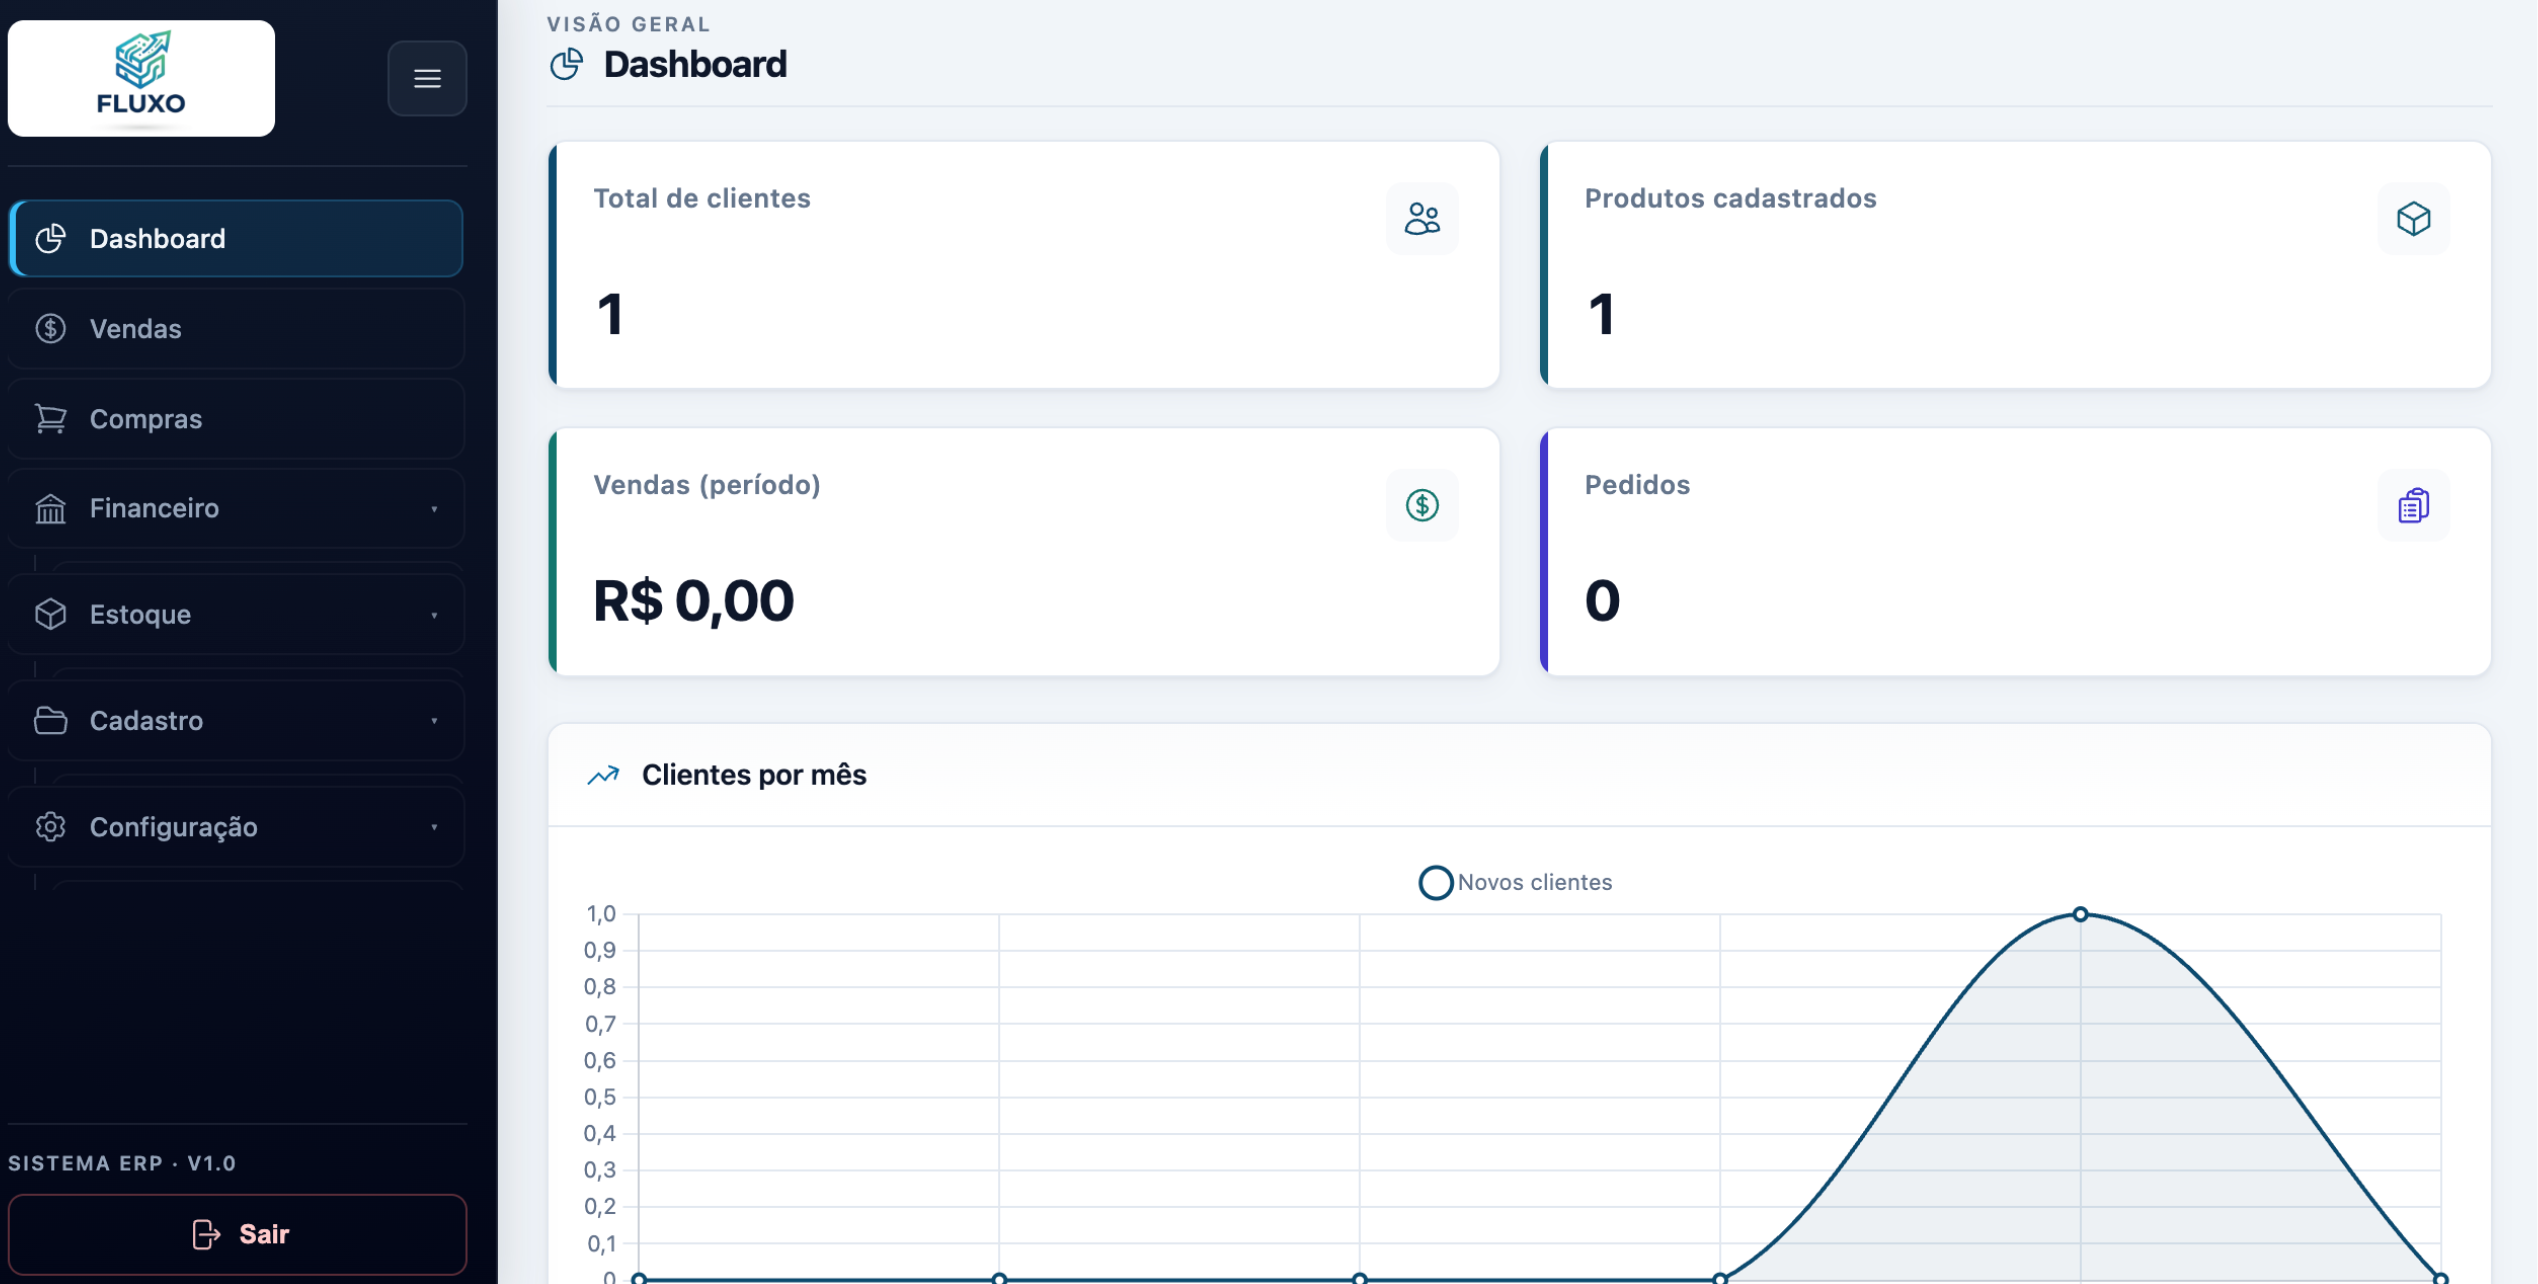
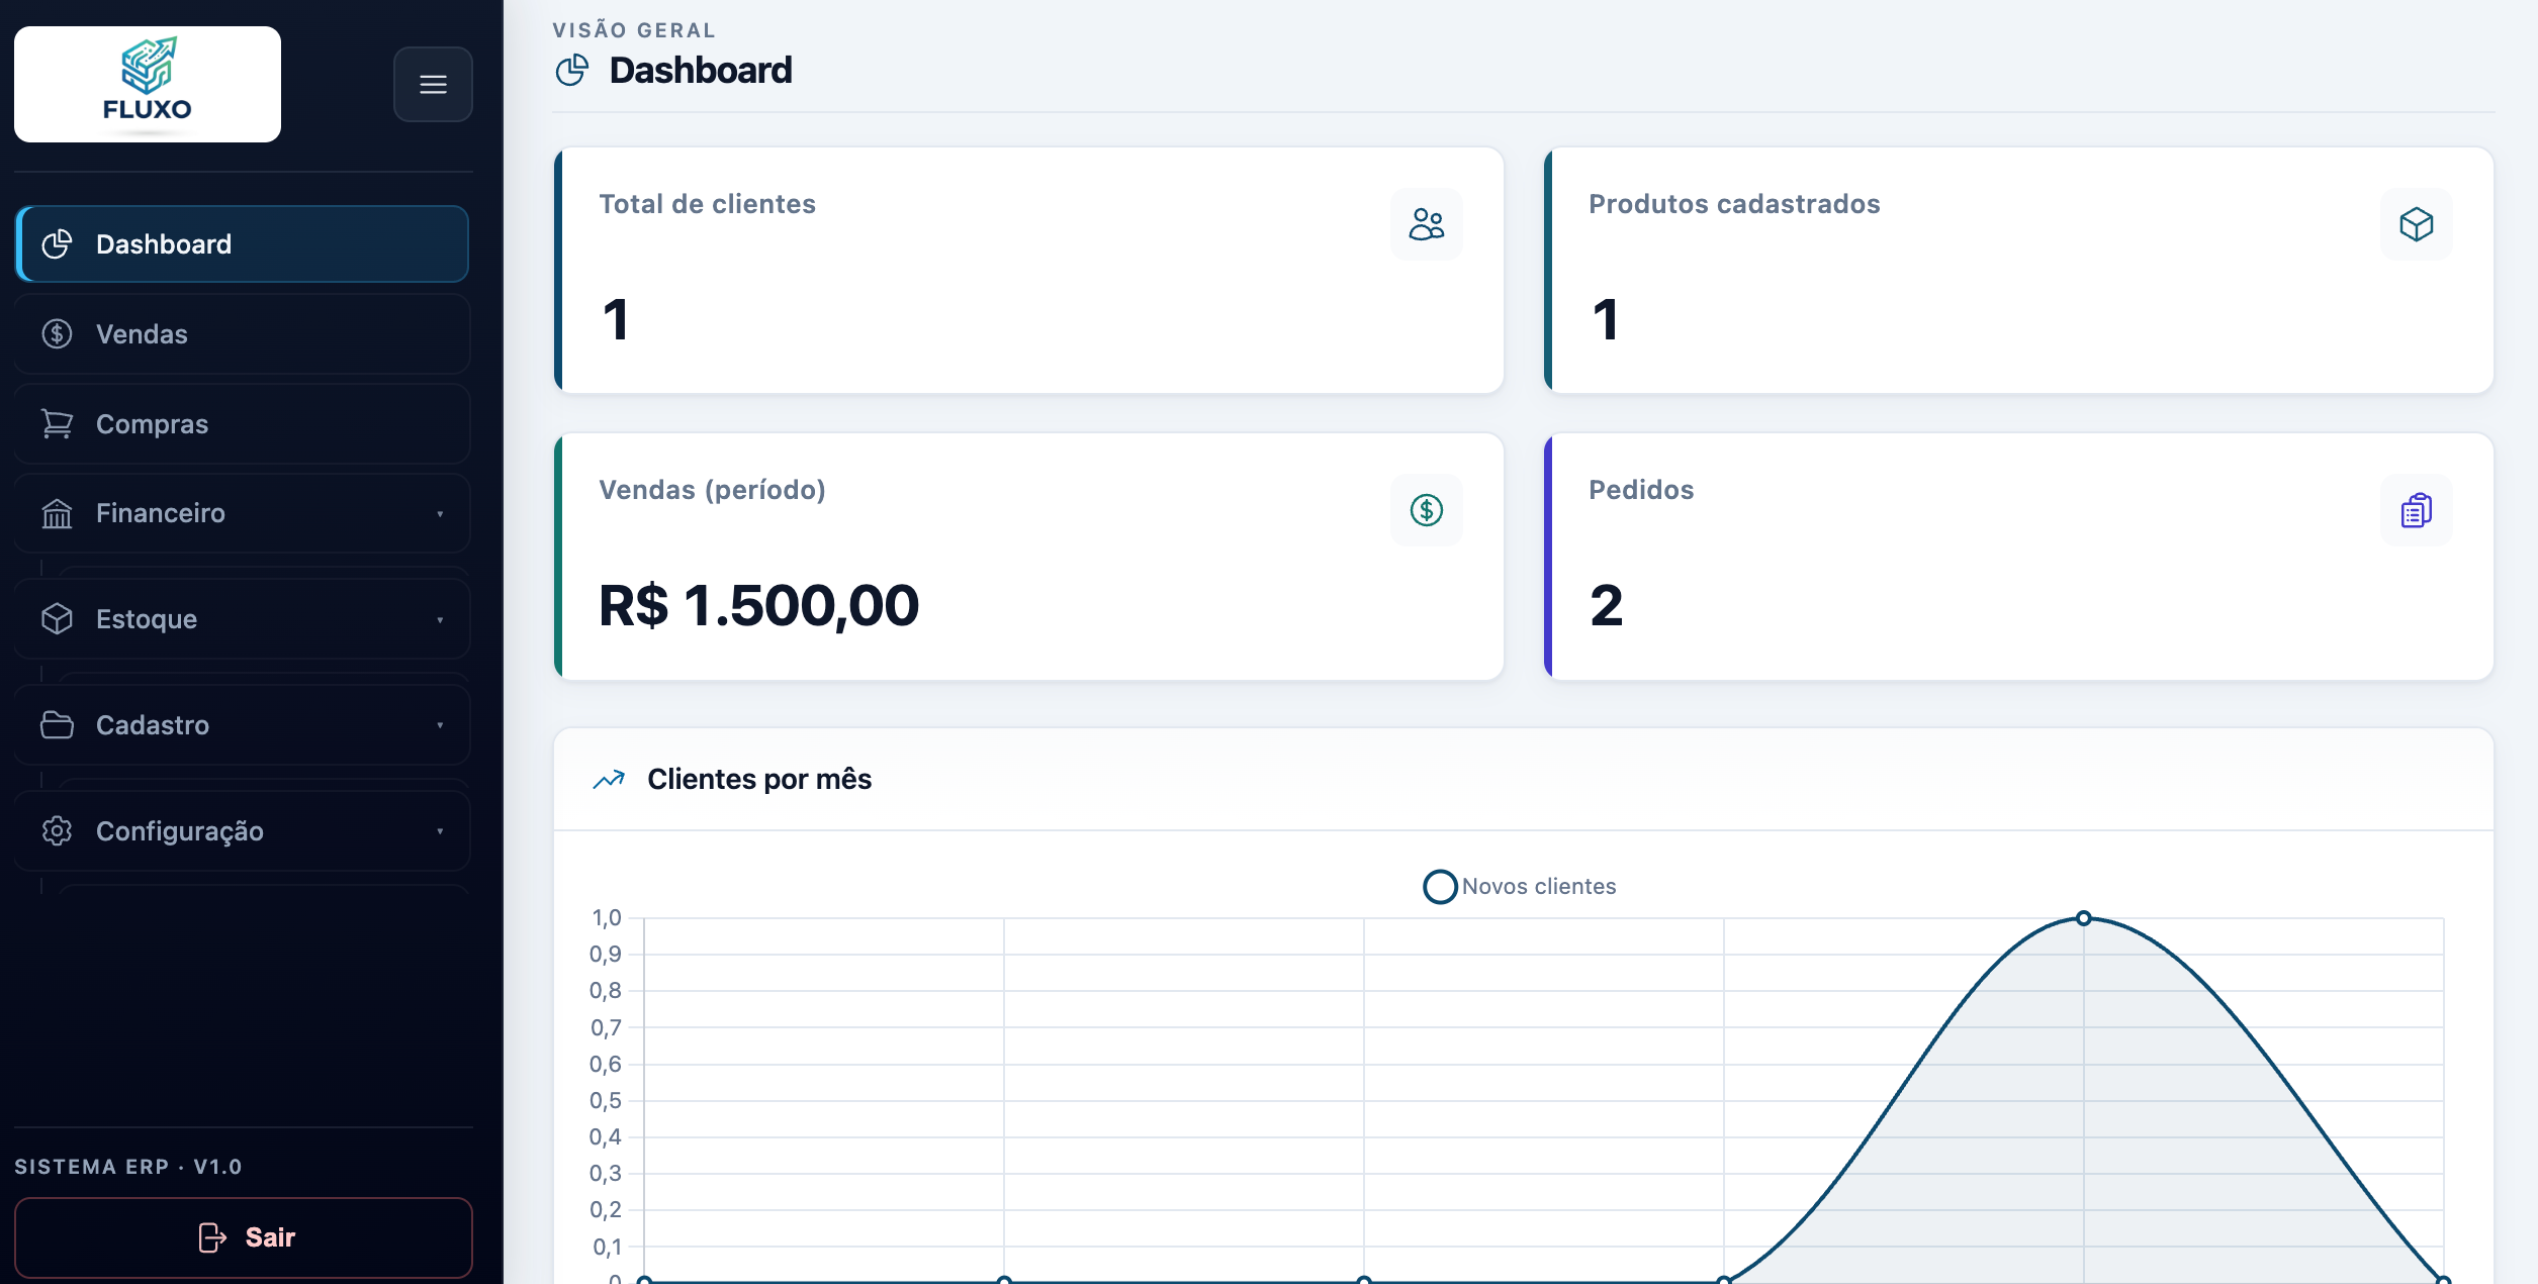
readme 2-07-26

diff --git a/README.md b/README.md
@@ -21,7 +21,7 @@ Este é um projeto de um Mini ERP (Enterprise Resource Planning) desenvolvido pa
 
 ### Financeiro
 
-![Contas a pagar](docs/screenshots/financeiro-contas-pagar.png)
+![Contas a pagar](docs/screenshots/financeiro-contas-receber.png)
 
 ### Estoque
 
@@ -30,10 +30,6 @@ Este é um projeto de um Mini ERP (Enterprise Resource Planning) desenvolvido pa
 ### Cadastro
 
 ![Cadastro de clientes](docs/screenshots/cadastro-clientes.png)
-
-### Configuração
-
-![Parâmetros do sistema](docs/screenshots/config-parametros.png)
 
 ## Funcionalidades
 - **Controle de Estoque**: Permite gerenciar o estoque de produtos, incluindo entradas, saídas e níveis de estoque.